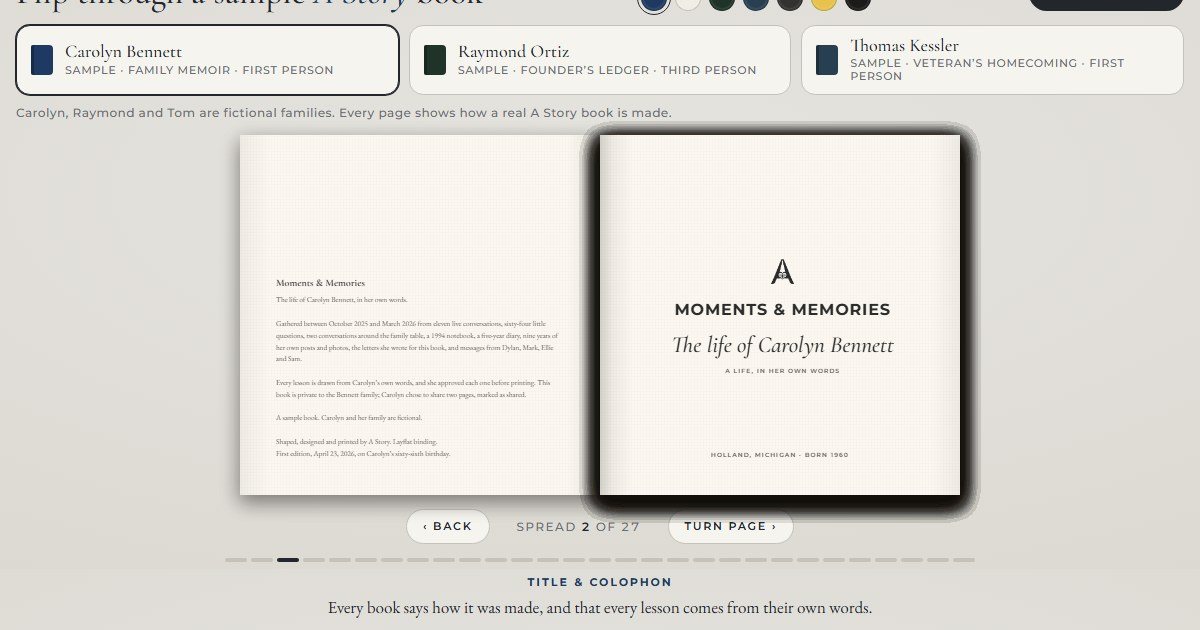
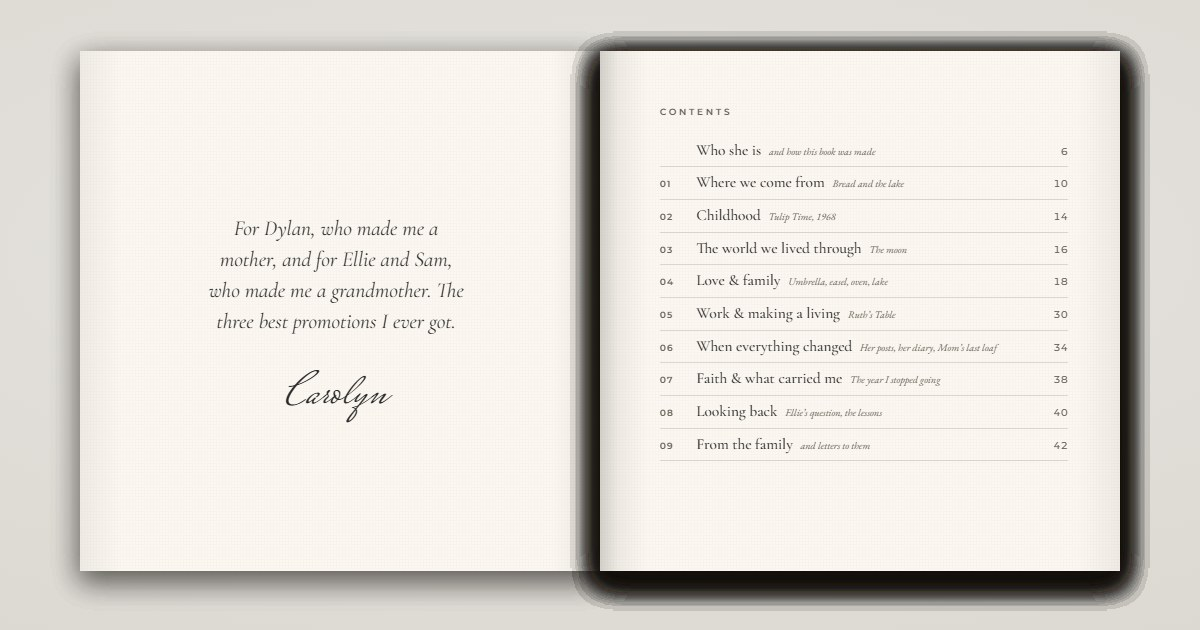
Sample books: a way in from every page that talks about the book
Every place the site describes the printed book now offers the three sample
books a click away: the book section on the home page, "make it a volume"
on How it works, the book section on Pricing, the footer, and the closing
"Where to next" band on every page (a plain anchor there too, since /samples
is a file outside the router).

/samples itself: its two "Reserve for $1" links go to /reserve on this site
in the same tab instead of opening astoryapp.com in a new one; the eyebrow
and the hint link back to the site and to How it works; WebPage and
breadcrumb structured data in the head. The social image is now just the
open book, centred, with no page chrome.

diff --git a/public/samples/index.html b/public/samples/index.html
@@ -23,6 +23,8 @@
 <meta name="twitter:title" content="A Story — Sample Books">
 <meta name="twitter:description" content="Flip through three sample A Story books: a family memoir, a founder’s story, and a veteran’s homecoming.">
 <meta name="twitter:image" content="https://astoryapp.com/og/samples.jpg">
+<style>.eyebrow a,.hint a.back{color:inherit;text-decoration:none;border-bottom:1px solid currentColor}.eyebrow a:hover,.hint a.back:hover{color:var(--accent)}</style>
+<script type="application/ld+json">{"@context":"https://schema.org","@graph":[{"@type":"WebPage","@id":"https://astoryapp.com/samples","url":"https://astoryapp.com/samples","name":"A Story — Sample Books","description":"Flip through three sample A Story books: a family memoir, a founder’s story, and a veteran’s homecoming.","isPartOf":{"@type":"WebSite","name":"A Story","url":"https://astoryapp.com/"},"primaryImageOfPage":"https://astoryapp.com/og/samples.jpg"},{"@type":"BreadcrumbList","itemListElement":[{"@type":"ListItem","position":1,"name":"Home","item":"https://astoryapp.com/"},{"@type":"ListItem","position":2,"name":"Sample books","item":"https://astoryapp.com/samples"}]}]}</script>
 <style>:root{color-scheme:light;box-sizing:border-box;padding-top:env(safe-area-inset-top,0px);padding-bottom:env(safe-area-inset-bottom,0px)}html{scroll-padding-top:env(safe-area-inset-top,0px)}body{margin:0;padding:0;font:14px -apple-system,BlinkMacSystemFont,sans-serif;background:#fff;color:#000}img{max-width:100%}[hidden]:not([hidden=until-found i]){display:none!important}</style></head><body>
 <link rel="preconnect" href="https://fonts.googleapis.com">
 <link rel="preconnect" href="https://fonts.gstatic.com" crossorigin>
@@ -720,10 +722,10 @@ header.top{width:100%;max-width:1180px;display:flex;flex-wrap:wrap;align-items:f
 <div class="wrap">
   <header class="top">
     <div class="brand">
-      <span class="eyebrow">A Story · Sample books</span>
+      <span class="eyebrow"><a href="/" title="Back to astoryapp.com">A Story</a> · Sample books</span>
       <h1>Flip through a sample <em>A Story</em> book</h1>
     </div>
-    <a class="cta cta-top" href="https://astoryapp.com/reserve" target="_blank" rel="noopener">Reserve for $1</a>
+    <a class="cta cta-top" href="/reserve">Reserve for $1</a>
     <div class="swatches">
       <span class="sw-label">Cover color · <b id="swName">Navy</b></span>
       <div class="swatch-row" id="swatches" role="group" aria-label="Cover color"></div>
@@ -753,9 +755,9 @@ header.top{width:100%;max-width:1180px;display:flex;flex-wrap:wrap;align-items:f
 
   <div class="reserve">
     <div class="rv-copy"><b>Start your parent’s book for $1.</b><span>$1 holds your place, refunded any time before launch. Or start now as a founding family for $29. Your parent talks, writes, or shares what they already have, and A Story does the shaping.</span></div>
-    <a class="cta" href="https://astoryapp.com/reserve" target="_blank" rel="noopener">Reserve for $1</a>
+    <a class="cta" href="/reserve">Reserve for $1</a>
   </div>
-  <p class="hint">Click a page or use ← → to turn. Tap any QR code to see what it opens. All three families and stories are fictional samples.</p>
+  <p class="hint">Click a page or use ← → to turn. Tap any QR code to see what it opens. All three families and stories are fictional samples. <a class="back" href="/">Back to astoryapp.com</a> · <a class="back" href="/how-it-works">How a book is made</a></p>
 </div>
 
 <div class="scan" id="scan" hidden role="dialog" aria-modal="true" aria-label="What opens when you scan">

diff --git a/src/pages/site/kit/kit.tsx b/src/pages/site/kit/kit.tsx
@@ -308,6 +308,13 @@ const ROOMS = [
     hint: "The call, the card, the book.",
   },
   {
+    /* A finished page in public/, outside the router (2026-10-11). */
+    to: "/samples",
+    title: "Sample books",
+    hint: "Three books you can flip through, page by page.",
+    file: true,
+  },
+  {
     to: "/for-families",
     title: "For families",
     hint: "Giving it, and using it together.",
@@ -361,15 +368,25 @@ export function Invitation({
         </div>
         <nav className="next" aria-label="Where to go next">
           <p className="next-label">Where to next</p>
-          {rooms.map((r) => (
-            <Link key={r.to} to={r.to}>
-              <span>
-                <b>{r.title}</b>
-                <span>{r.hint}</span>
-              </span>
-              <ArrowIcon />
-            </Link>
-          ))}
+          {rooms.map((r) =>
+            "file" in r ? (
+              <a key={r.to} href={r.to}>
+                <span>
+                  <b>{r.title}</b>
+                  <span>{r.hint}</span>
+                </span>
+                <ArrowIcon />
+              </a>
+            ) : (
+              <Link key={r.to} to={r.to}>
+                <span>
+                  <b>{r.title}</b>
+                  <span>{r.hint}</span>
+                </span>
+                <ArrowIcon />
+              </Link>
+            ),
+          )}
         </nav>
       </Frame>
     </Band>

diff --git a/src/pages/site/home/FamilyBook.tsx b/src/pages/site/home/FamilyBook.tsx
@@ -41,6 +41,7 @@ import {
   Frame,
   SplitHead,
   Statement,
+  TextAnchor,
   TextLink,
 } from "../kit/kit.styles";
 import { riseLines, useScene, gsap } from "../../../lib/scrollMotion";
@@ -884,6 +885,12 @@ const Scene = styled.section`
     font-weight: 500;
     color: ${color.accentText};
   }
+  .print-line .links {
+    display: flex;
+    flex-wrap: wrap;
+    align-items: center;
+    gap: 12px 32px;
+  }
 
   /* Narrow screens: one spread at a time, stacked, no 3D. */
   .single {
@@ -1385,9 +1392,15 @@ export default function FamilyBook() {
             print it at home free. Printed editions from {BOOK.from}. The archive
             keeps growing after the book is printed.
           </p>
-          <TextLink to="/pricing#book">
-            See book options <ArrowIcon />
-          </TextLink>
+          <div className="links">
+            {/* /samples is a page in public/, outside the router: a plain anchor. */}
+            <TextAnchor href="/samples">
+              Flip through three sample books <ArrowIcon />
+            </TextAnchor>
+            <TextLink to="/pricing#book">
+              See book options <ArrowIcon />
+            </TextLink>
+          </div>
         </div>
       </Frame>
     </Scene>

diff --git a/src/pages/site/Pricing.tsx b/src/pages/site/Pricing.tsx
@@ -42,6 +42,7 @@ import {
   PrimaryAnchor,
   SplitHead,
   Statement,
+  TextAnchor,
   TextLink,
 } from "./kit/kit.styles";
 import { color, display, font, media, motion } from "../../styles/theme";
@@ -973,6 +974,12 @@ export default function Pricing() {
               Choose the stories and photographs whenever you’re ready. The
               archive keeps growing afterwards, and the book can be printed
               again.
+            </p>
+            <p data-rise>
+              {/* /samples is a page in public/, outside the router: a plain anchor. */}
+              <TextAnchor href="/samples">
+                Flip through three sample books <ArrowIcon />
+              </TextAnchor>
             </p>
           </div>
         </Frame>

diff --git a/src/pages/site/HowItWorks.tsx b/src/pages/site/HowItWorks.tsx
@@ -51,6 +51,7 @@ import {
   SplitHead,
   StackHead,
   Statement,
+  TextAnchor,
   TextLink,
   grounds,
 } from "./kit/kit.styles";
@@ -1376,6 +1377,10 @@ export default function HowItWorks() {
               archive keeps growing after the book is printed.
             </p>
             <div className="links" data-rise>
+              {/* /samples is a page in public/, outside the router: a plain anchor. */}
+              <TextAnchor href="/samples">
+                Flip through three sample books <ArrowIcon />
+              </TextAnchor>
               <TextLink to="/pricing#book">
                 See book options <ArrowIcon />
               </TextLink>

diff --git a/src/pages/site/Footer.tsx b/src/pages/site/Footer.tsx
@@ -42,6 +42,8 @@ export default function Footer() {
             <div>
               <h2>The product</h2>
               <Link to="/how-it-works">How it works</Link>
+              {/* A page in public/, outside the router: a plain anchor. */}
+              <a href="/samples">Sample books</a>
               <Link to="/for-families">For families</Link>
               <Link to="/pricing">Pricing</Link>
               <Link to="/compare">Compare</Link>
